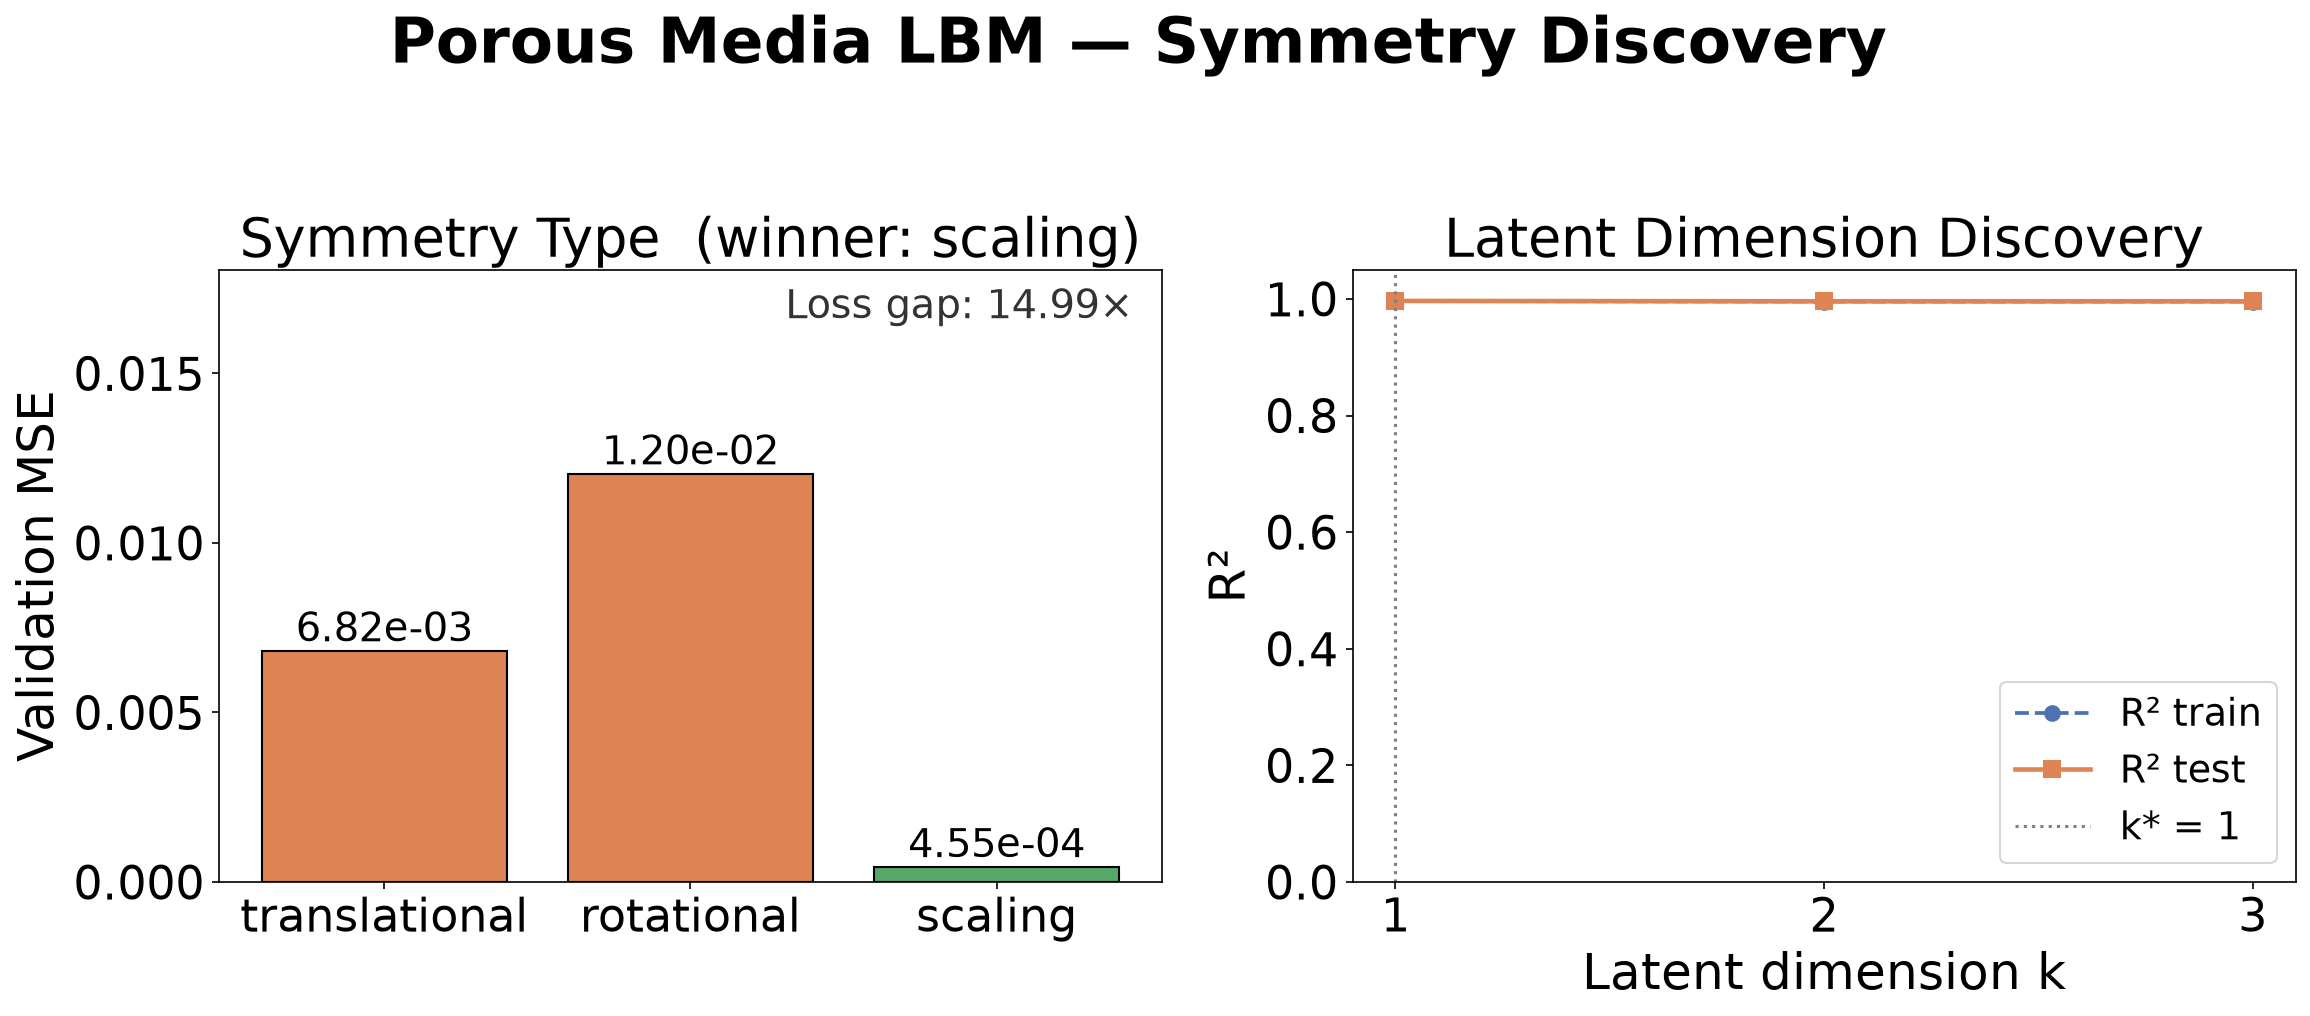
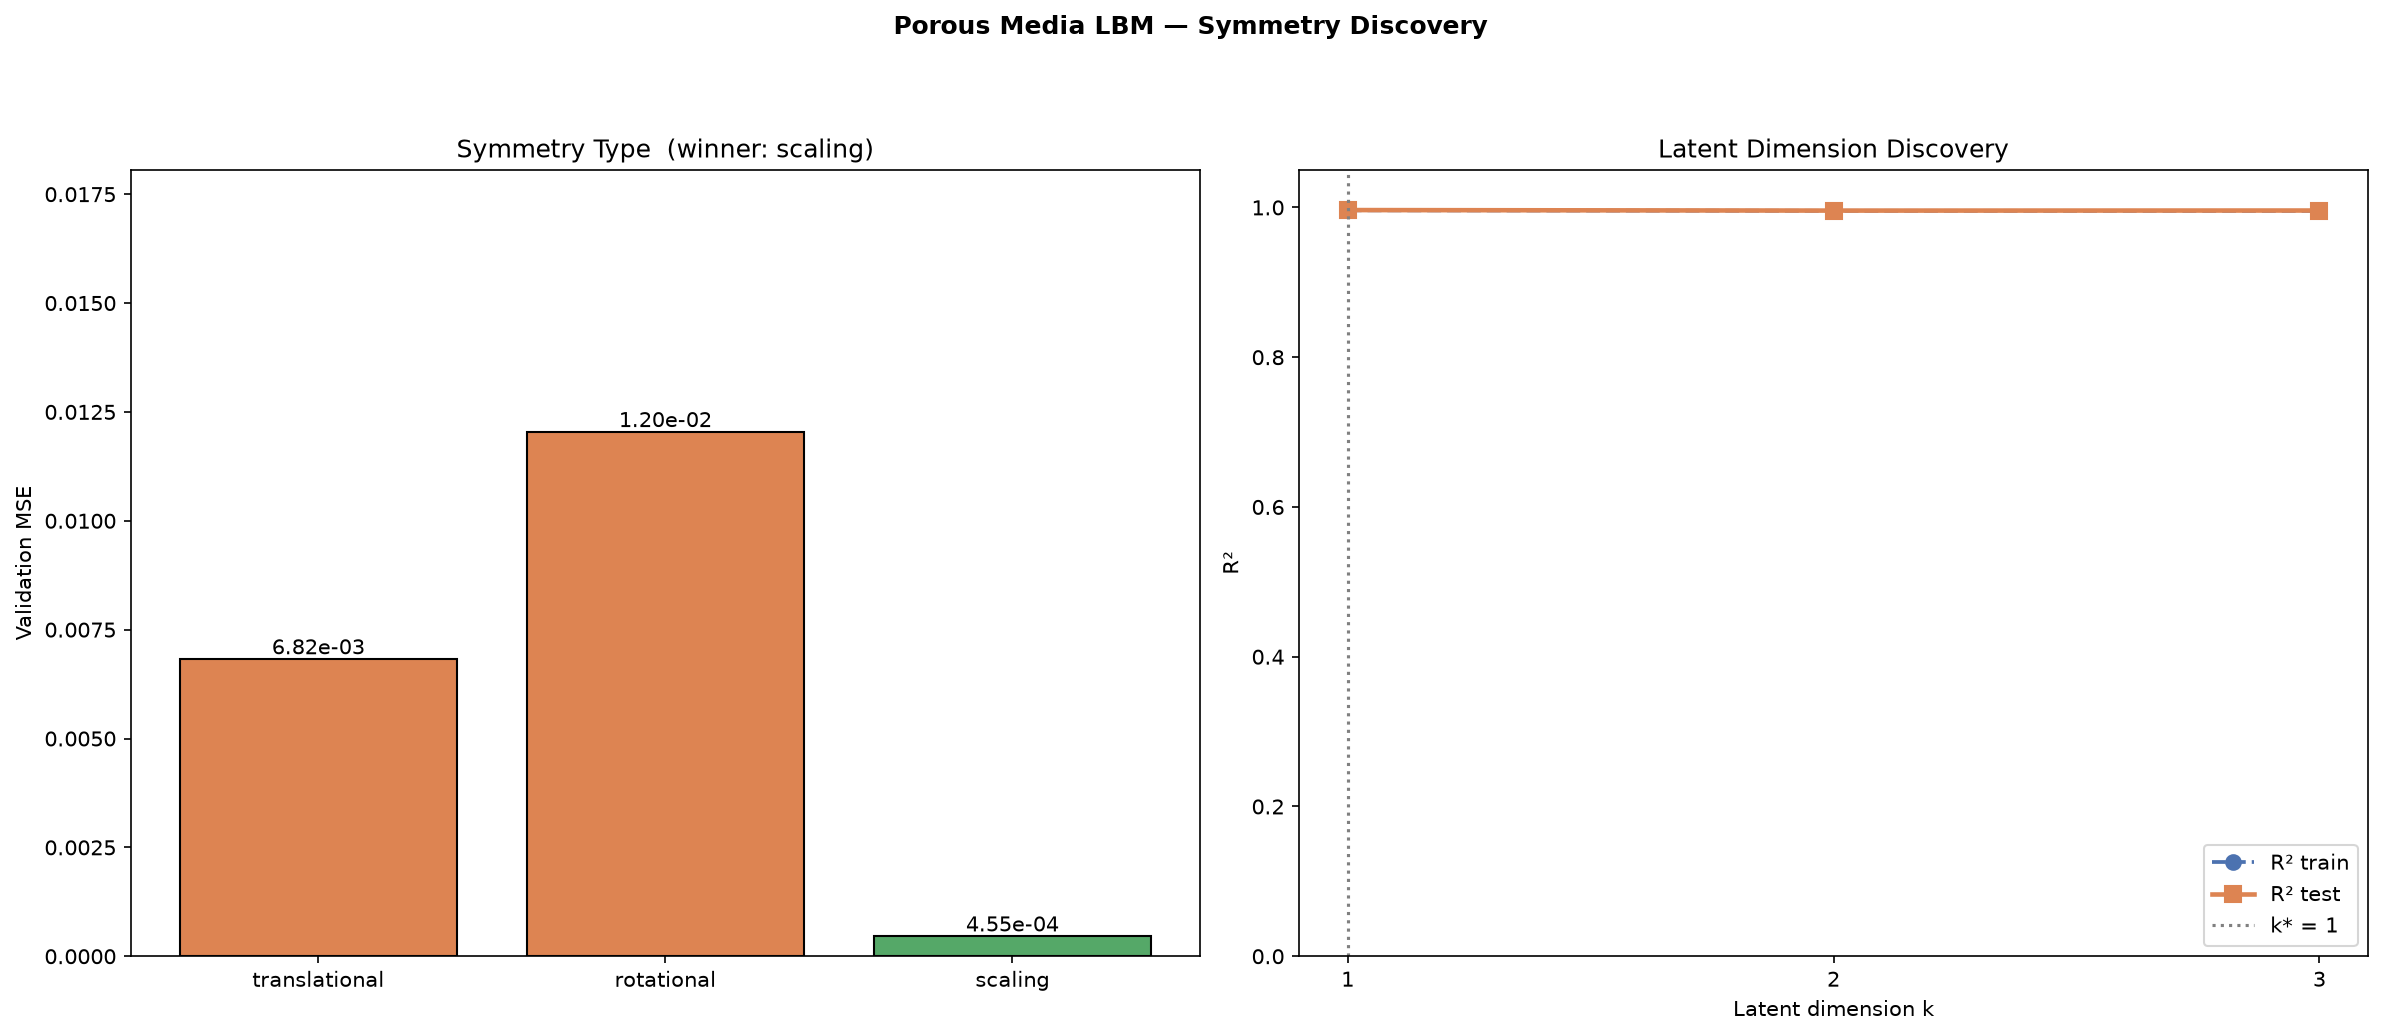
Drop loss-gap annotation from symmetry-discovery bar chart
Removes the top-right "Loss gap: N.Nx" text box from plot_results in
discover_symmetry.py and regenerates the two wide-phi synthetic PNGs
(viscous and inertial) without it. Bars, MSE labels and the latent-dim
panel are unchanged.

diff --git a/projects/20260912_Stage1_Prokash/Examples/porous_media_lbm_symmetry/discover_symmetry.py b/projects/20260912_Stage1_Prokash/Examples/porous_media_lbm_symmetry/discover_symmetry.py
@@ -760,11 +760,6 @@ def plot_results(X, y, results, output_dir):
     for bar, loss in zip(bars, losses):
         ax.text(bar.get_x() + bar.get_width() / 2, bar.get_height(),
                 f"{loss:.2e}", ha="center", va="bottom")
-    sorted_losses = sorted(losses)
-    if len(sorted_losses) >= 2 and sorted_losses[0] > 0:
-        gap = sorted_losses[1] / sorted_losses[0]
-        ax.text(0.97, 0.97, f"Loss gap: {gap:.2f}×",
-                ha="right", va="top", transform=ax.transAxes, color="#333333")
 
     # Panel 2: latent-dim R² curve
     ax = axes[1]
